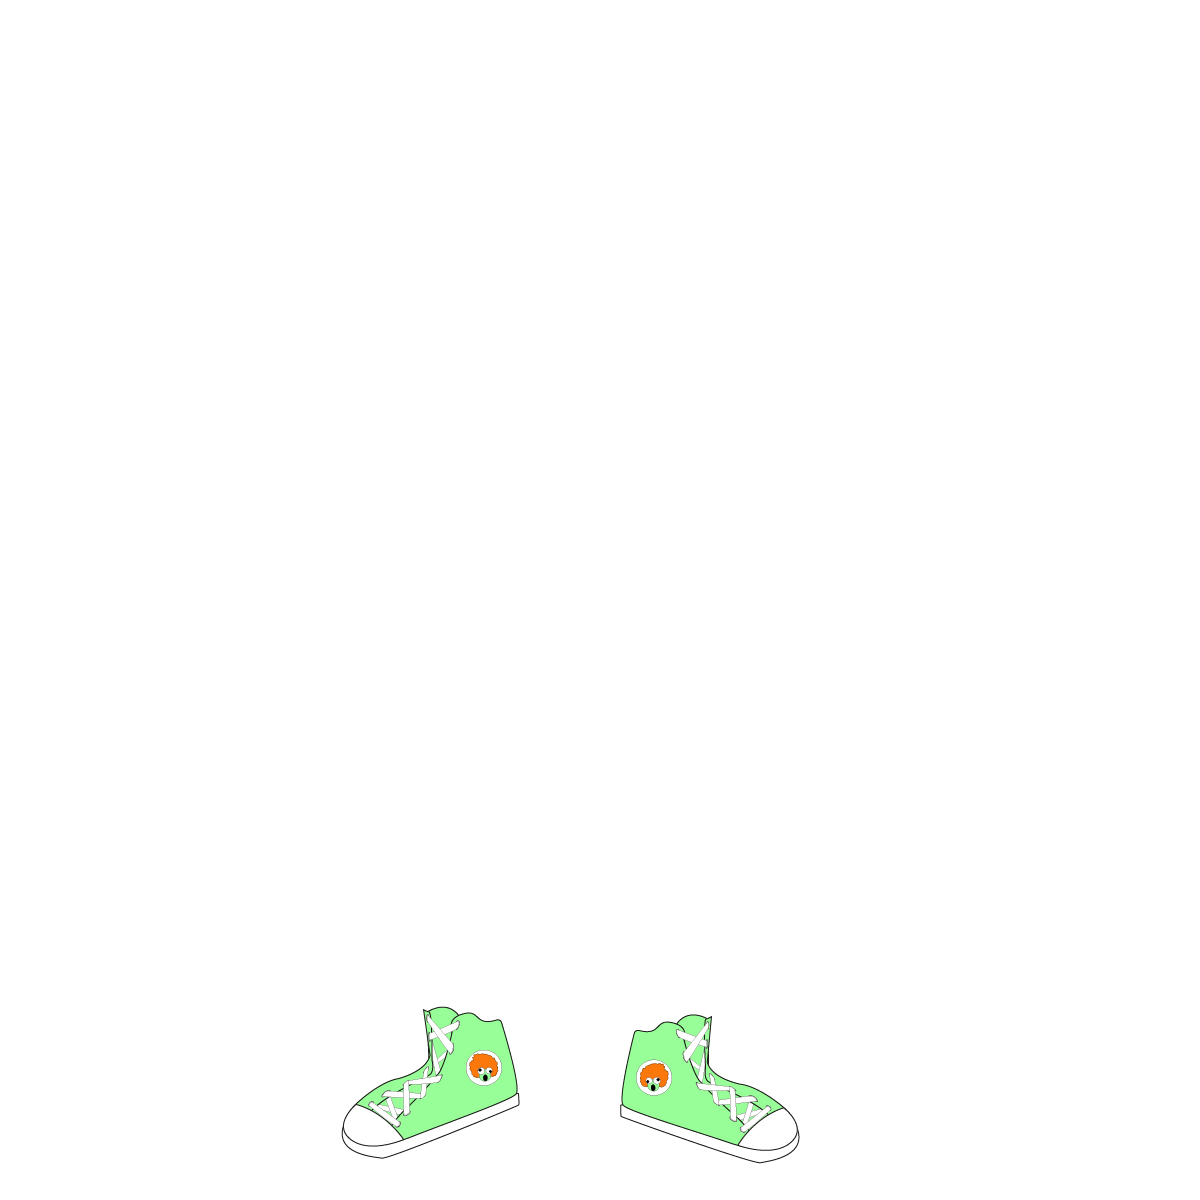
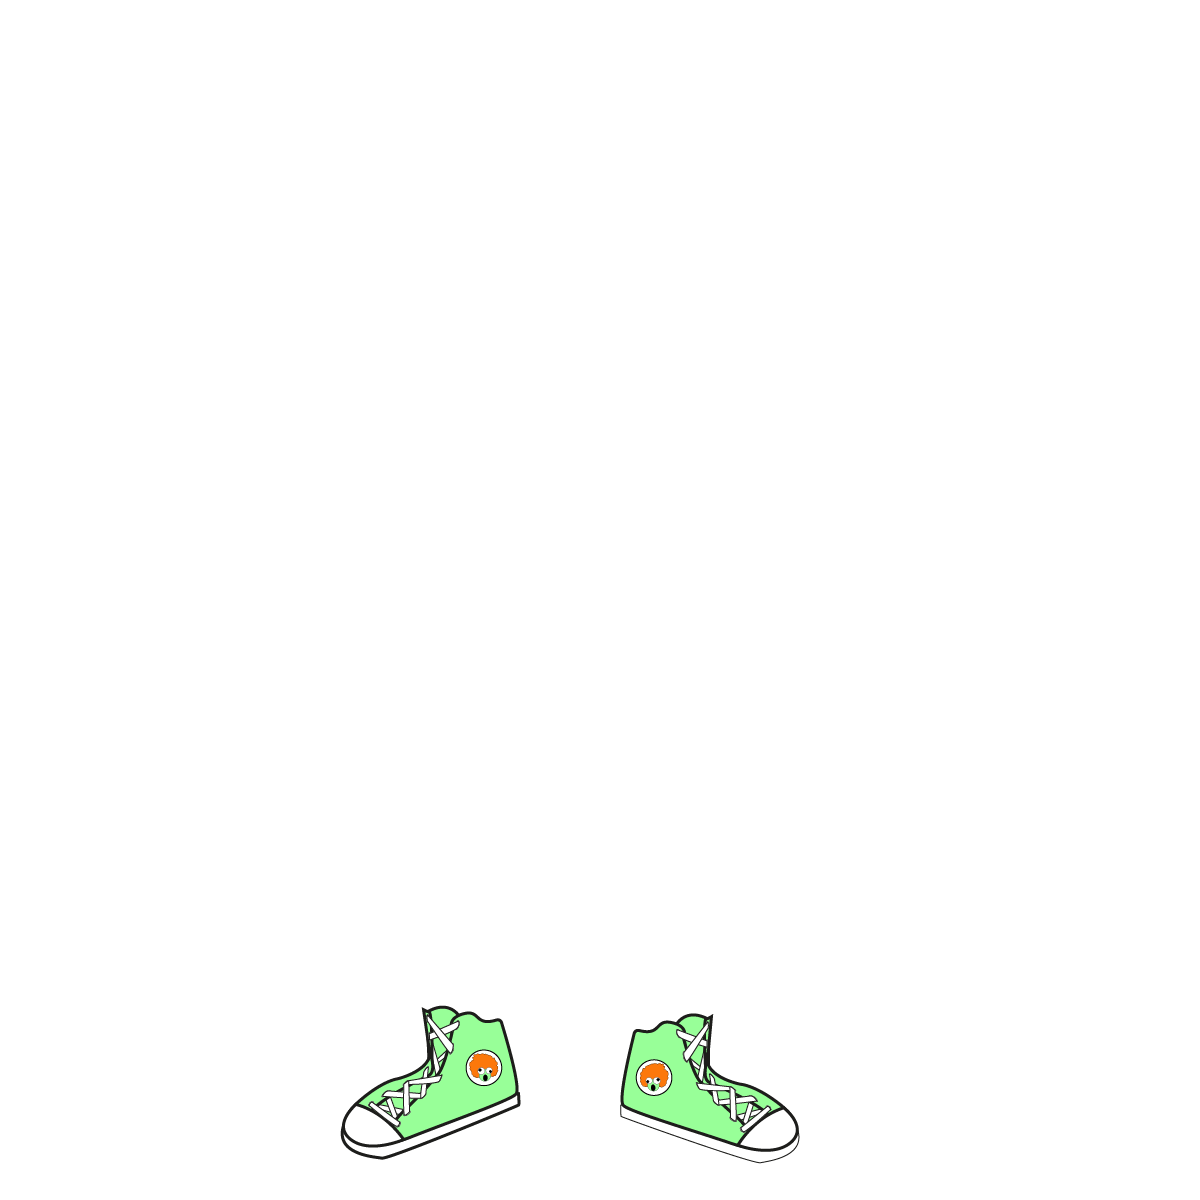
Add stronger edges on the converse shoes

Changed region(s): [[0.2775, 0.8325, 0.4317, 0.9867], [0.5242, 0.8325, 0.6783, 0.9558], [0.4933, 0.8942, 0.5242, 0.925]]

diff --git a/generate_from_config.py b/generate_from_config.py
@@ -36,7 +36,7 @@ def main():
         '00_Background\\Lightblue.png',
         f'01_Body\\SKIN_Standard_{skin}.png',
         '02_Clothes\\IsNakedShoes_CocktaildressSalmon.png',
-        f'03_Shoes\\HasNakedShoes_HighHeelsBlue_Openlight.png',
+        f'03_Shoes\\ConverseOrange_Zeichenfläche 1.png',
         f'04_Hair\\HAIR_Standard_{color}.png',
         '05_Mouth\\IsAlive_Fangs_Basic.png',
         '06_Eyes\\IsAlive_ShiningPurple_Basic.png',
